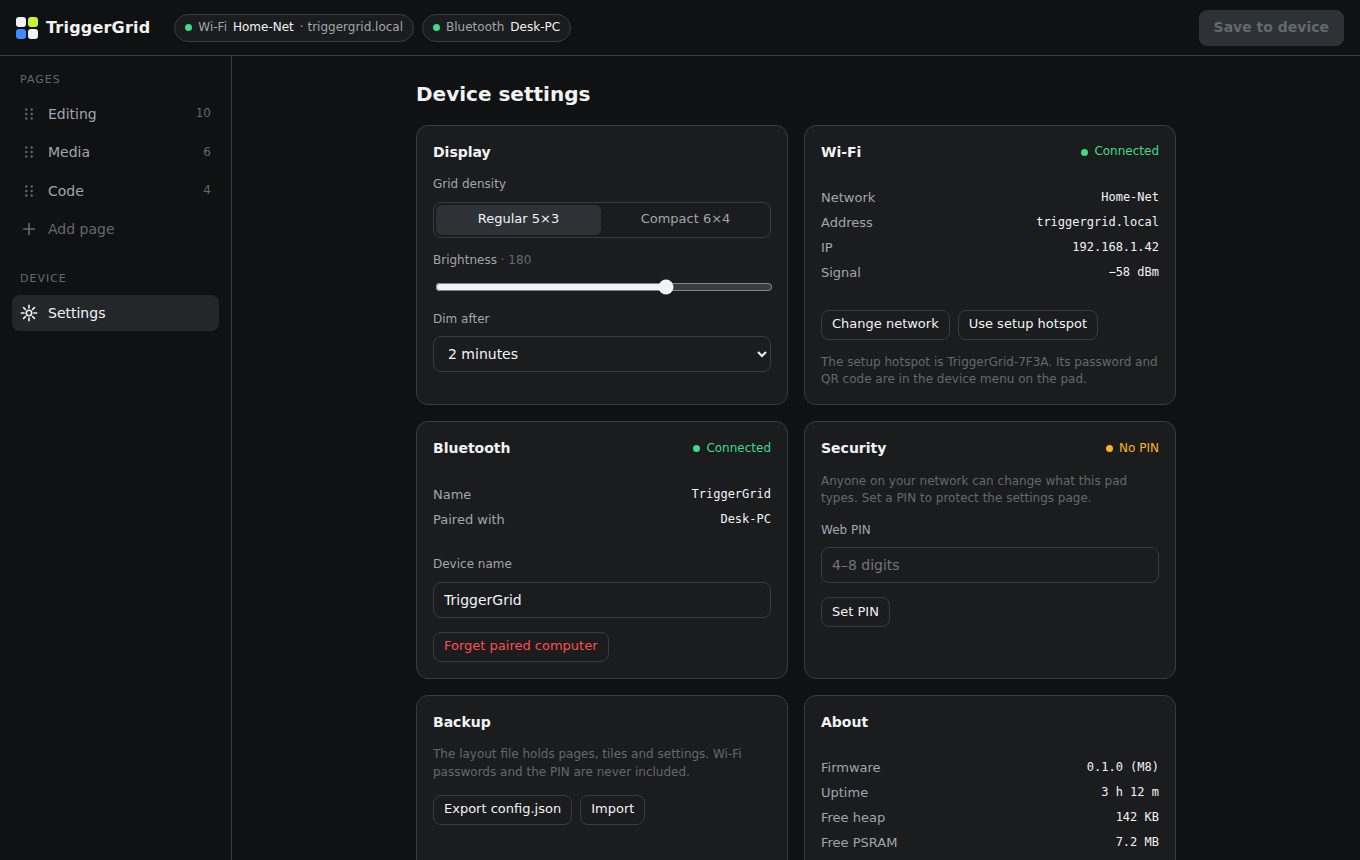
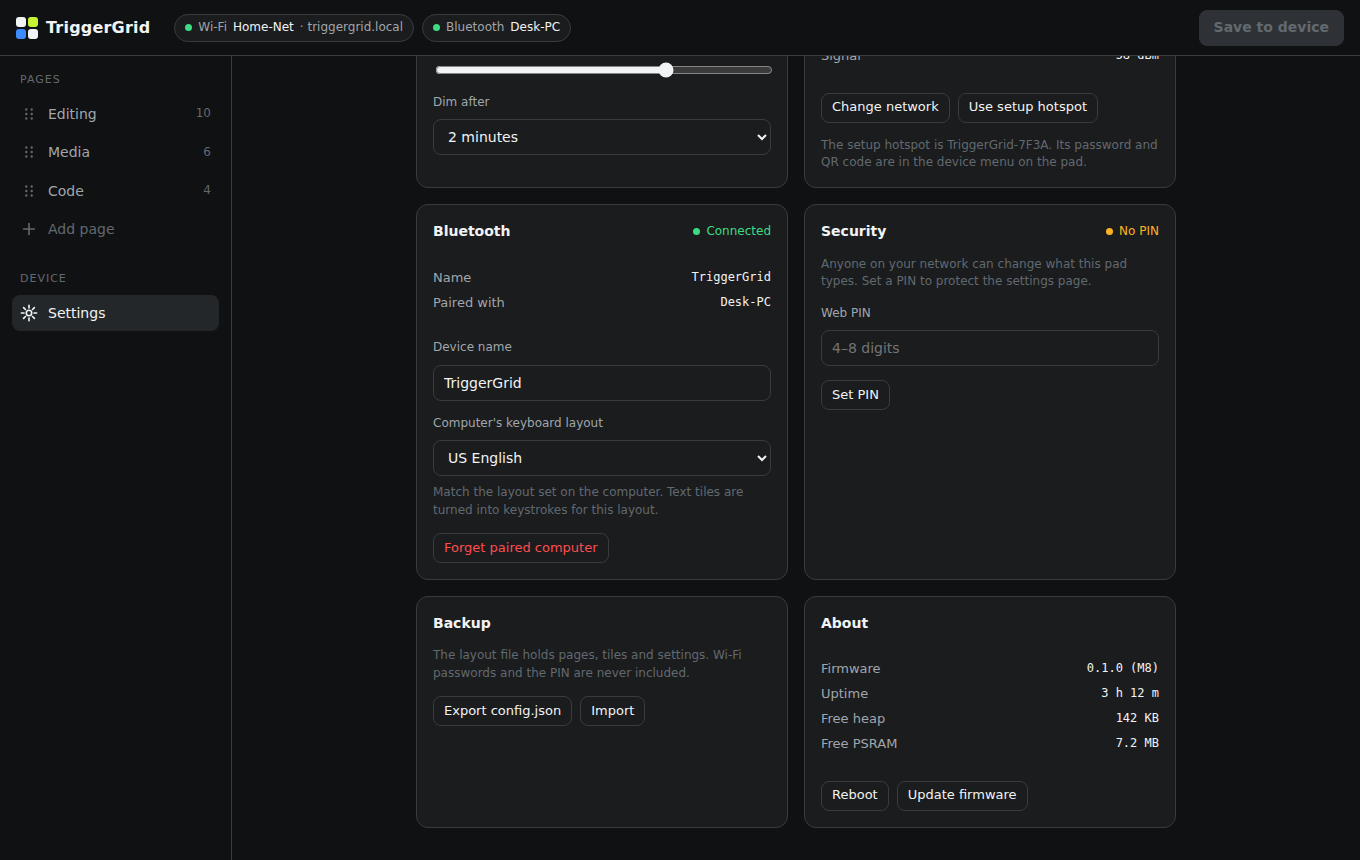
Mockup: in-browser layout compiler, text check, keyboard layout setting
- Add the editor → pad compiler to the mockup (HID modifier/usage codes,
  consumer codes, US-layout keystroke hex, soft-tile colour mix, icon
  indexes), matching the worked example in config-schema.md
- config.json panel shows the editor and compiled pad sections side by
  side, live, with a file-size meter against the 32 KB device limit
- Text tiles flag characters the computer's layout can't type; Try it and
  Save are blocked until fixed. Try it shows the compiled action
- Settings: "Computer's keyboard layout" (hostLayout), US English for now
- Fix: selecting a text or media tile crashed the editor panel (all action
  forms were built eagerly and the key-combo form read a missing field)

Claude-Session: https://claude.ai/code/session_01AnXjiuVzXiYL1kWvLSBKQn

diff --git a/docs/mockups/web-config.html b/docs/mockups/web-config.html
@@ -185,8 +185,15 @@ textarea { height: 88px; padding: 8px 10px; resize: vertical; font-family: var(-
 .kv dt { color: var(--text-muted); } .kv dd { margin: 0; font-family: var(--mono); font-size: 12px; text-align: right; }
 input[type=range] { width: 100%; accent-color: var(--text); }
 .json { width: 100%; max-width: 760px; }
-.json pre { margin: 0; max-height: 280px; overflow: auto; background: var(--surface-1); border: 1px solid var(--line); border-radius: var(--radius-panel);
+.json-panes { display: grid; grid-template-columns: 1fr 1fr; gap: 12px; margin-top: 8px; }
+.json-panes > div { min-width: 0; display: flex; flex-direction: column; gap: 6px; }
+.json-title { font-size: 12px; color: var(--text); font-weight: 500; }
+.json-title .note { font-weight: 400; }
+.json pre { margin: 0; height: 300px; overflow: auto; background: var(--surface-1); border: 1px solid var(--line); border-radius: var(--radius-panel);
             padding: 12px 16px; font: 12px/1.5 var(--mono); color: var(--text-muted); }
+.json-foot { margin-top: 8px; font-size: 12px; color: var(--text-muted); display: flex; align-items: center; gap: 10px; }
+.meter { flex: 0 0 120px; height: 6px; border-radius: 3px; background: var(--surface-3); overflow: hidden; }
+.meter i { display: block; height: 100%; background: var(--ok); }
 details summary { cursor: pointer; color: var(--text-muted); font-size: 13px; padding: 4px 0; }
 
 /* ---------- toast ---------- */
@@ -213,6 +220,7 @@ details summary { cursor: pointer; color: var(--text-muted); font-size: 13px; pa
   .editor::before { content: ''; align-self: center; width: 36px; height: 4px; border-radius: 2px; background: var(--line); margin-bottom: -8px; }
   .divider { margin: 0 -16px; }
   .cards { grid-template-columns: 1fr; }
+  .json-panes { grid-template-columns: 1fr; }
   .tray-items { flex-wrap: nowrap; overflow-x: auto; padding-bottom: 4px; }   /* swipe sideways on phones */
 }
 </style>
@@ -287,12 +295,123 @@ const ICONS = {
   none: '',
 };
 const MEDIA_KEYS = ['PLAY_PAUSE','NEXT_TRACK','PREV_TRACK','STOP','MUTE','VOLUME_UP','VOLUME_DOWN','BRIGHTNESS_UP','BRIGHTNESS_DOWN'];
+
+// ---- compiler: editor section → pad section (docs/config-schema.md) ---------
+// This is the browser half of "thin device, smart browser": the firmware gets
+// numbers only and has none of these tables. Destined for web/lib/ in M6.
+const COLOR_HEX = { 'var(--text)': 'F2F3F4', 'var(--on-bright)': '0E0F10' };
+const SURFACE_1 = '1A1C1E';
+const MODIFIERS = { CTRL: 0x01, LCTRL: 0x01, SHIFT: 0x02, LSHIFT: 0x02, ALT: 0x04, LALT: 0x04, GUI: 0x08, LGUI: 0x08,
+                    RCTRL: 0x10, RSHIFT: 0x20, RALT: 0x40, RGUI: 0x80 };
+// HID keyboard usage codes (USB HID Usage Tables, page 0x07).
+const USAGE = { ENTER: 0x28, ESC: 0x29, BACKSPACE: 0x2A, TAB: 0x2B, SPACE: 0x2C, MINUS: 0x2D, EQUAL: 0x2E,
+  LBRACKET: 0x2F, RBRACKET: 0x30, BACKSLASH: 0x31, SEMICOLON: 0x33, QUOTE: 0x34, GRAVE: 0x35, COMMA: 0x36,
+  PERIOD: 0x37, SLASH: 0x38, CAPS_LOCK: 0x39, PRINT_SCREEN: 0x46, INSERT: 0x49, HOME: 0x4A, PAGE_UP: 0x4B,
+  DELETE: 0x4C, END: 0x4D, PAGE_DOWN: 0x4E, RIGHT: 0x4F, LEFT: 0x50, DOWN: 0x51, UP: 0x52 };
+for (let i = 0; i < 26; i++) USAGE[String.fromCharCode(65 + i)] = 0x04 + i;          // A–Z
+for (let i = 1; i <= 9; i++) USAGE[String(i)] = 0x1E + i - 1;  USAGE['0'] = 0x27;    // 1–9, 0
+for (let i = 1; i <= 12; i++) USAGE['F' + i] = 0x3A + i - 1;                         // F1–F12
+for (let i = 13; i <= 24; i++) USAGE['F' + i] = 0x68 + i - 13;                       // F13–F24
+// HID consumer usage codes (page 0x0C).
+const CONSUMER = { PLAY_PAUSE: 0xCD, NEXT_TRACK: 0xB5, PREV_TRACK: 0xB6, STOP: 0xB7, MUTE: 0xE2,
+                   VOLUME_UP: 0xE9, VOLUME_DOWN: 0xEA, BRIGHTNESS_UP: 0x6F, BRIGHTNESS_DOWN: 0x70 };
+
+// Keyboard layouts: character → [modifier, usage] as typed on the *computer's* layout.
+// Adding a layout (uk, de, …) is a browser-only change: the firmware never sees characters.
+const LAYOUTS = {
+  us: {
+    name: 'US English',
+    map: (() => {
+      const m = { ' ': [0, 0x2C], '\n': [0, 0x28], '\t': [0, 0x2B] };
+      for (let i = 0; i < 26; i++) {
+        m[String.fromCharCode(97 + i)] = [0, 0x04 + i];
+        m[String.fromCharCode(65 + i)] = [0x02, 0x04 + i];
+      }
+      '1234567890'.split('').forEach((c, i) => { m[c] = [0, 0x1E + i]; });
+      '!@#$%^&*()'.split('').forEach((c, i) => { m[c] = [0x02, 0x1E + i]; });
+      const pairs = [['-', '_', 0x2D], ['=', '+', 0x2E], ['[', '{', 0x2F], [']', '}', 0x30], ['\\', '|', 0x31],
+                     [';', ':', 0x33], ["'", '"', 0x34], ['`', '~', 0x35], [',', '<', 0x36], ['.', '>', 0x37], ['/', '?', 0x38]];
+      pairs.forEach(([plain, shifted, u]) => { m[plain] = [0, u]; m[shifted] = [0x02, u]; });
+      return m;
+    })(),
+  },
+};
+const layout = () => LAYOUTS[config.settings.hostLayout] || LAYOUTS.us;
+
+// Characters in `text` that the computer's layout can't type (unique, in order).
+function untypable(text) {
+  const map = layout().map;
+  return [...new Set([...(text || '')].filter(c => !map[c]))];
+}
+const hex2 = (n) => n.toString(16).toUpperCase().padStart(2, '0');
+function mixHex(a, b, t) {    // same maths as the style guide's `soft` tile: t of a over b
+  return [0, 2, 4].map(i => hex2(Math.round(parseInt(a.substr(i, 2), 16) * t + parseInt(b.substr(i, 2), 16) * (1 - t)))).join('');
+}
+
+// One tile's action → compiled action. Returns { a } or { error }.
+function compileAction(action) {
+  if (action.type === 'keys') {
+    let m = 0; const k = [];
+    for (const name of action.keys) {
+      if (name in MODIFIERS) m |= MODIFIERS[name];
+      else if (name in USAGE) k.push(USAGE[name]);
+      else return { error: `Unknown key “${name}”.` };
+    }
+    if (!m && !k.length) return { error: 'Add at least one key.' };
+    if (k.length > 6) return { error: 'At most 6 non-modifier keys.' };
+    return { a: { t: 'k', m, k } };
+  }
+  if (action.type === 'media') {
+    return action.key in CONSUMER ? { a: { t: 'c', u: CONSUMER[action.key] } } : { error: `Unknown media key “${action.key}”.` };
+  }
+  if (action.type === 'text') {
+    const bad = untypable(action.text);
+    if (bad.length) return { error: `Can't type ${bad.map(c => `“${c === '\n' ? '↵' : c}”`).join(', ')} on a ${layout().name} keyboard.` };
+    if ([...action.text].length > 1024) return { error: 'Text is longer than 1024 characters.' };
+    const map = layout().map;
+    return { a: { t: 's', d: action.charDelayMs ?? 10, s: [...action.text].map(c => hex2(map[c][0]) + hex2(map[c][1])).join('') } };
+  }
+  return { error: `Unknown action type “${action.type}”.` };
+}
+
+const ICON_INDEX = Object.fromEntries(Object.keys(ICONS).filter(n => n !== 'none').map((n, i) => [n, i + 1]));
+
+function compileTile(t) {
+  const [sw, on] = SWATCHES[t.color] || SWATCHES.graphite, swHex = sw.slice(1), onHex = COLOR_HEX[on];
+  const soft = t.style === 'soft', { a } = compileAction(t.action);
+  return { x: t.x, y: t.y, w: t.w, h: t.h, label: t.label, icon: ICON_INDEX[t.icon] || 0,
+           bg: soft ? mixHex(swHex, SURFACE_1, 0.16) : swHex, fg: soft ? COLOR_HEX['var(--text)'] : onHex,
+           accent: soft ? swHex : onHex, bar: soft, a: a ?? null };   // null = action has an error; Save is blocked
+}
+function compilePad() {
+  const s = config.settings;
+  return { v: 1, name: s.deviceName, density: s.density === 'compact' ? 1 : 0, brightness: s.brightness,
+           dim: s.dimAfterSec, pages: config.pages.map(p => ({ name: p.name, tiles: p.tiles.map(compileTile) })) };
+}
+// The whole file as PUT /api/config would send it (compact JSON, as saved).
+function savedFile() {
+  return JSON.stringify({ version: config.version, editor: { settings: config.settings, pages: config.pages }, pad: compilePad() });
+}
+const MAX_FILE = 32 * 1024;
+
+// Everything that blocks a save, across all pages: grid rules, actions, file size.
+function saveProblems() {
+  const out = [];
+  config.pages.forEach(p => p.tiles.forEach(t => {
+    const fit = fitError(t, p), act = compileAction(t.action).error;
+    if (fit) out.push(`${p.name} › ${t.label}: ${fit}`);
+    if (act) out.push(`${p.name} › ${t.label}: ${act}`);
+  }));
+  const size = new Blob([savedFile()]).size;
+  if (size > MAX_FILE) out.push(`The layout is ${(size / 1024).toFixed(1)} KB; the device limit is 32 KB.`);
+  return out;
+}
 const svg = (name, cls = 'i') => `<svg class="${cls}" viewBox="0 0 20 20">${ICONS[name] || ''}</svg>`;
 
 // ---- config (docs/config-schema.md, version 1) -----------------------------
 const config = {
   version: 1,
-  settings: { deviceName: 'TriggerGrid', density: 'regular', brightness: 180, dimAfterSec: 120 },
+  settings: { deviceName: 'TriggerGrid', density: 'regular', brightness: 180, dimAfterSec: 120, hostLayout: 'us' },
   pages: [
     { id: 'edit', name: 'Editing', tiles: [
       { id: 'copy',  x: 0, y: 0, w: 1, h: 1, label: 'Copy',  icon: 'copy',  color: 'azure', style: 'solid', action: { type: 'keys', keys: ['CTRL', 'C'] } },
@@ -416,6 +535,16 @@ function fitDevice() {
   if (note) note.textContent = s < 1 ? `Scaled to ${Math.round(s * 100)}%.` : 'Actual size.';
 }
 
+function updateJson() {
+  if (!$('json-editor')) return;
+  $('json-editor').textContent = JSON.stringify(page(), null, 2);
+  $('json-pad').textContent = JSON.stringify(compilePad().pages[state.page], null, 2);
+  const size = new Blob([savedFile()]).size, pct = Math.min(100, size / MAX_FILE * 100);
+  $('json-foot').innerHTML = `<span class="meter"><i style="width:${pct}%;${size > MAX_FILE ? 'background:var(--error)' : ''}"></i></span>
+    Whole file ${(size / 1024).toFixed(1)} KB of the 32 KB device limit`;
+}
+document.addEventListener('toggle', (e) => { if (e.target.id === 'json') state.jsonOpen = e.target.open; }, true);
+
 // ---- tile tray: templates you drag onto the screen -------------------------
 const TEMPLATES = [
   { group: 'Blank' },
@@ -468,8 +597,23 @@ function renderLayout() {
     <div class="hint"><span id="scale-note">Actual size.</span> Drag tiles to move them, drag the white corner to resize,
       or drag a new tile in from the tray. Arrow keys nudge the selected tile.</div>
     ${renderTray()}
-    <details class="json"><summary>config.json for this page</summary><pre>${esc(JSON.stringify(page(), null, 2))}</pre></details>`;
+    <details class="json" id="json" ${state.jsonOpen ? 'open' : ''}><summary>config.json: what Save sends to the device</summary>
+      <div class="json-panes">
+        <div><span class="json-title">editor <span class="note">· this page, for the browser</span></span><pre id="json-editor"></pre></div>
+        <div><span class="json-title">pad <span class="note">· this page compiled, the only part the device reads</span></span><pre id="json-pad"></pre></div>
+      </div>
+      <div class="json-foot" id="json-foot"></div>
+    </details>`;
+  updateJson();
   fitDevice();
+}
+
+function textNote(a) {
+  const bad = untypable(a.text);
+  const count = `${[...(a.text || '')].length} / 1024 · typed on a ${layout().name} keyboard`;
+  return bad.length
+    ? `<span class="err">${esc(compileAction(a).error)} Remove them, or change the computer's keyboard layout in Settings.</span>`
+    : `<span class="note">${count}</span>`;
 }
 
 function renderEditor() {
@@ -479,24 +623,25 @@ function renderEditor() {
     return;
   }
   const a = t.action, err = fitError(t);
+  // Build only the form for this tile's action type (the others' fields don't exist on it).
   const actionFields = {
-    keys: `
+    keys: () => `
       <div class="field"><span class="lbl">Key combo</span>
         <div class="keys">${a.keys.map((k, i) => `${i ? '<span class="plus">+</span>' : ''}<span class="keycap">${esc(k)}<button data-delkey="${i}" aria-label="Remove ${esc(k)}">×</button></span>`).join('')}</div>
         <div class="row"><button class="btn small ${state.recording ? 'recording' : ''}" id="record">
           <svg class="i" viewBox="0 0 20 20"><circle cx="10" cy="10" r="4" fill="currentColor" stroke="none"/></svg>
           ${state.recording ? 'Press a key combo…' : 'Record combo'}</button>
           <span class="note">US layout key positions</span></div></div>`,
-    text: `
+    text: () => `
       <div class="field"><label for="f-text">Text to type</label>
         <textarea id="f-text" maxlength="1024">${esc(a.text || '')}</textarea>
-        <span class="note">${(a.text || '').length} / 1024 · printable ASCII, Enter and Tab</span></div>
+        <span id="text-note">${textNote(a)}</span></div>
       <div class="field"><label for="f-delay">Delay between characters (ms)</label>
         <input type="number" id="f-delay" min="5" max="100" value="${a.charDelayMs ?? 10}"></div>`,
-    media: `
+    media: () => `
       <div class="field"><label for="f-media">Media key</label>
         <select id="f-media">${MEDIA_KEYS.map(k => `<option ${k === a.key ? 'selected' : ''}>${k}</option>`).join('')}</select></div>`,
-  }[a.type];
+  }[a.type]();
 
   $('editor').innerHTML = `
     <h2><span class="sw-dot" style="background:${SWATCHES[t.color][0]}"></span>Edit tile</h2>
@@ -544,6 +689,10 @@ function renderDevice() {
       <div class="card"><h3>Bluetooth<span class="state" style="color:var(--ok)">Connected</span></h3>
         <dl class="kv"><dt>Name</dt><dd>${esc(s.deviceName)}</dd><dt>Paired with</dt><dd>Desk-PC</dd></dl>
         <div class="field"><label for="f-name">Device name</label><input type="text" id="f-name" maxlength="24" value="${esc(s.deviceName)}"></div>
+        <div class="field"><label for="f-layout">Computer's keyboard layout</label>
+          <select id="f-layout">${Object.entries(LAYOUTS).map(([k, l]) => `<option value="${k}" ${k === s.hostLayout ? 'selected' : ''}>${l.name}</option>`).join('')}
+            <option disabled>UK English (coming later)</option><option disabled>German (coming later)</option></select>
+          <span class="note">Match the layout set on the computer. Text tiles are turned into keystrokes for this layout.</span></div>
         <div class="row"><button class="btn small danger" data-toast="Bluetooth pairing cleared" data-color="var(--warn)">Forget paired computer</button></div>
       </div>
       <div class="card"><h3>Security<span class="state" style="color:var(--warn)">No PIN</span></h3>
@@ -592,12 +741,19 @@ document.addEventListener('click', (e) => {
   }
   if (d.delkey) { t.action.keys.splice(+d.delkey, 1); markDirty(); return render(); }
   if (el.id === 'record') { state.recording = !state.recording; return renderEditor(); }
-  if (el.id === 'try') return toast(`Sent “${t.label}” to Desk-PC`);
+  if (el.id === 'try') {
+    const c = compileAction(t.action);
+    if (c.error) return toast(c.error, 'var(--error)');
+    const body = JSON.stringify(c.a);   // exactly what POST /api/test would send
+    return toast(`Sent “${t.label}” to Desk-PC: ${body.length > 60 ? body.slice(0, 57) + '…' : body}`);
+  }
   if (el.id === 'delete') { page().tiles = page().tiles.filter(o => o !== t); state.tile = null; markDirty(); return render(); }
   if (el.id === 'save') {
-    const bad = config.pages.flatMap(p => p.tiles.filter(x => fitError(x, p)).map(x => `${p.name}: ${x.label}`));
-    if (bad.length) return toast(`Can't save: ${bad[0]} doesn't fit`, 'var(--error)');
-    state.dirty = false; $('dirty').classList.remove('on'); $('save').disabled = true; return toast('Saved. The pad has updated.');
+    const bad = saveProblems();
+    if (bad.length) return toast(`Can't save. ${bad[0]}${bad.length > 1 ? ` (+${bad.length - 1} more)` : ''}`, 'var(--error)');
+    const kb = (new Blob([savedFile()]).size / 1024).toFixed(1);
+    state.dirty = false; $('dirty').classList.remove('on'); $('save').disabled = true;
+    return toast(`Saved ${kb} KB. The pad has updated.`);
   }
   if (d.toast) return toast(d.toast, d.color);
 });
@@ -613,6 +769,7 @@ document.addEventListener('input', (e) => {
     case 'f-bright': config.settings.brightness = +v; e.target.previousElementSibling.querySelector('.swatch-name').textContent = '· ' + v; markDirty(); return;
     case 'f-dim': config.settings.dimAfterSec = +v; markDirty(); return;
     case 'f-name': config.settings.deviceName = v; markDirty(); return;
+    case 'f-layout': config.settings.hostLayout = v; markDirty(); return;
     default: return;
   }
   markDirty();
@@ -620,7 +777,8 @@ document.addEventListener('input', (e) => {
   renderSidebar();
   const stage = $('stage').querySelector('.device-wrap');
   if (stage) { stage.outerHTML = renderPreview(); fitDevice(); }
-  const pre = $('stage').querySelector('pre'); if (pre) pre.textContent = JSON.stringify(page(), null, 2);
+  updateJson();
+  if (e.target.id === 'f-text') $('text-note').innerHTML = textNote(tile().action);
 });
 
 // "Record combo": capture modifiers + one key and map to config-schema key names.

diff --git a/docs/mockups/README.md b/docs/mockups/README.md
@@ -11,6 +11,10 @@ double-click it. Add `#settings` to the URL to open the settings view directly.
 
 ![Dragging a preset from the tray onto the screen](../images/web-config-drag.png)
 
+| The config.json panel: editor vs compiled pad | Text the keyboard layout can't type |
+|---|---|
+| ![config.json panel showing the editor and pad sections side by side](../images/web-config-json.png) | ![Text box with a red error listing ë and an emoji](../images/web-config-text-error.png) |
+
 | Settings view | Phone layout |
 |---|---|
 | ![Device settings](../images/web-config-settings.png) | <img src="../images/web-config-phone.png" width="260" alt="Phone layout: page tabs across the top, scaled preview, tile editor as a bottom sheet"> |
@@ -28,6 +32,15 @@ double-click it. Add `#settings` to the URL to open the settings view directly.
   updates as you go.
 - Tap an empty `+` cell to add a blank tile there, or delete a tile from the editor.
 - All placement follows the grid rules from the config schema (must fit the grid, no overlaps).
+- **The layout compiler runs in the page**, exactly as the real one will. The *config.json*
+  panel shows the human-readable `editor` section next to the compiled `pad` section, the only
+  part the device reads, and updates as you edit. Watch `CTRL` + `C` become `"m": 1, "k": [6]`.
+  Below them, a meter shows the whole file's size against the device's 32 KB limit.
+- **Typed text is checked against the computer's keyboard layout** (Settings → Bluetooth →
+  *Computer's keyboard layout*; US English for now). Characters that layout can't type, like
+  `ë` or emoji, are listed under the text box, and *Try it* and *Save* are blocked until they're gone.
+- *Try it* shows the compiled action it would send to `POST /api/test`, and *Save* shows the
+  size of the file it would upload.
 - **Record combo:** press a key combination and it's converted to config key names (`CTRL`, `SHIFT`, `M`).
 - Switch density between Regular 5×3 and Compact 6×4.
 - *config.json for this page* shows the live JSON in the [config schema](../config-schema.md) format.
@@ -37,9 +50,8 @@ buttons only show a message. Status values (IP, signal, heap) are placeholders.
 
 **How it maps to the real page:** the real `web/index.html` (M8/M9) can start from this file. The
 data model, grid maths, swatch table and key-name mapping are already the ones the firmware will
-use. What changes is loading and saving through `GET`/`PUT /api/config`, and compiling the
-`pad` section before saving (see the [config schema](../config-schema.md#the-pad-section-compiled)).
-The *config.json* panel in the mockup shows the `editor` section.
+use, and so is the compiler (the *compiler* section of the script moves to `web/lib/` in M6). What
+changes is loading and saving through `GET`/`PUT /api/config`.
 
 **Design notes:**
 - The device preview is drawn at 1:1 (480×320 plus bezel) using the style-guide grid numbers, and
